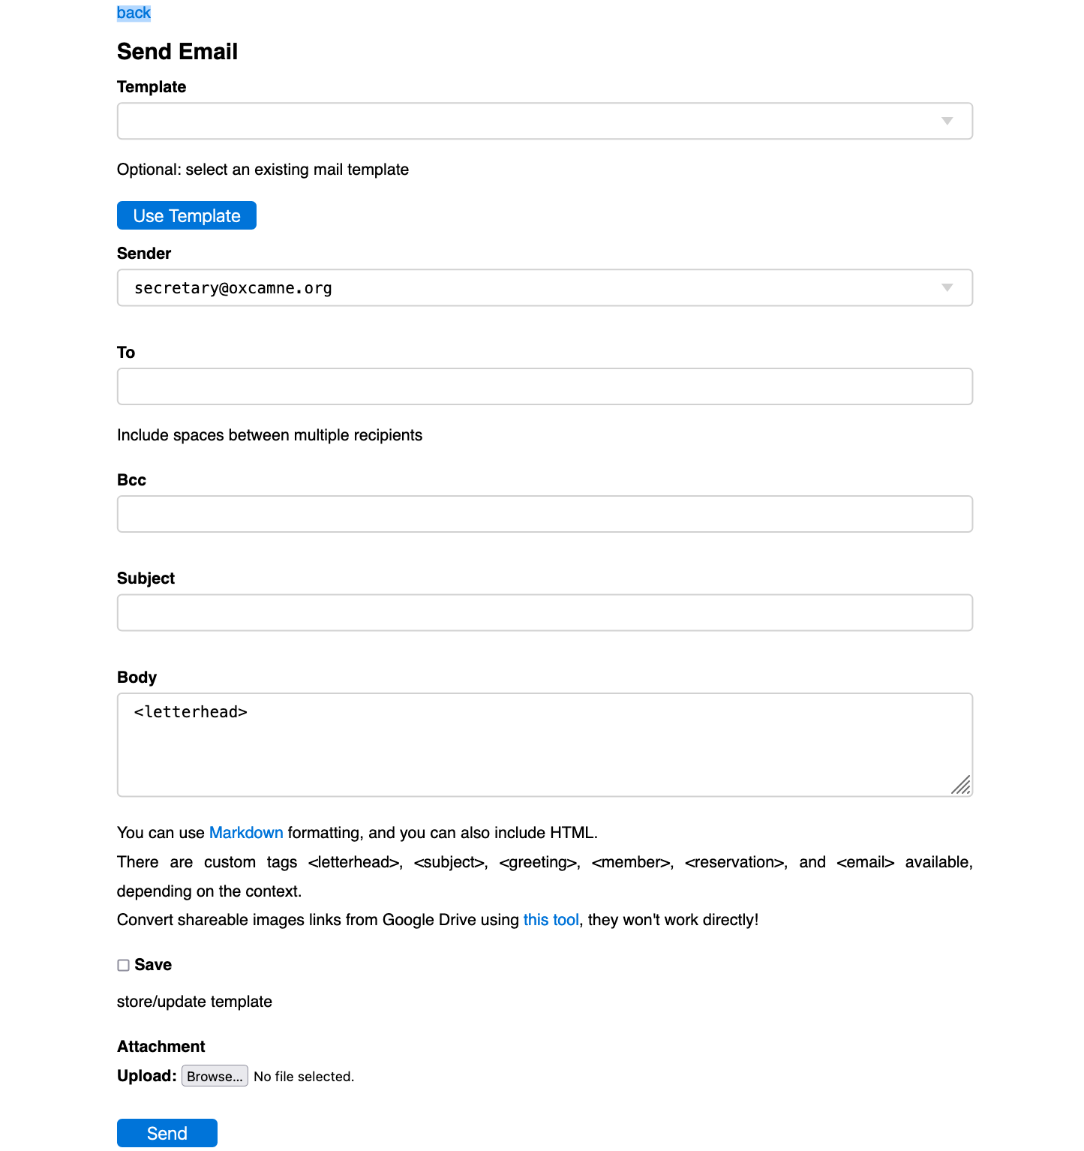
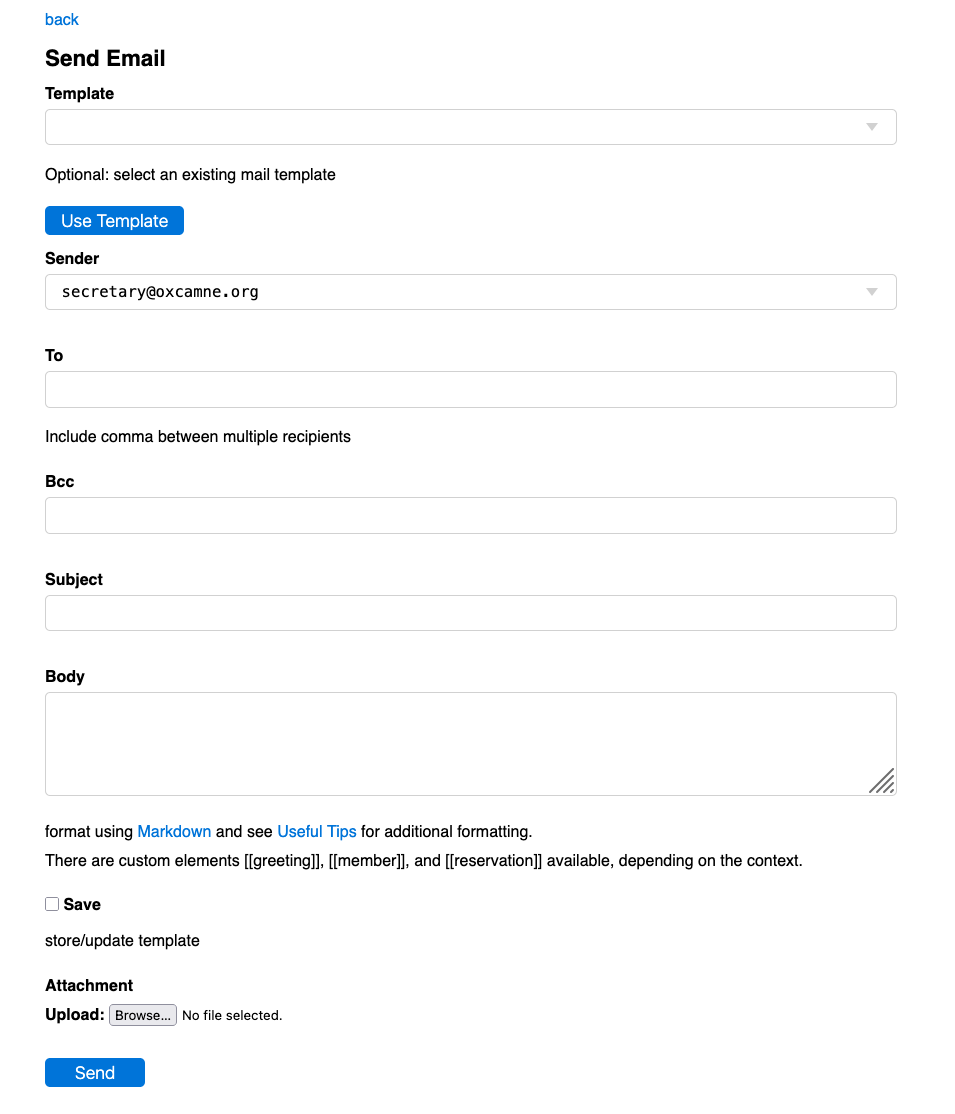
Begin to add check-in functionality, fix links in daily maintenance emails

diff --git a/templates/check_in.html b/templates/check_in.html
@@ -1,0 +1,42 @@
+[[extend 'layout.html']]
+
+[[=header]]
+
+<input type="text" id="search" placeholder="Search by name..." autocomplete="off">
+
+<div id="grid-container">
+[[=grid.render()]]
+</div>
+
+<script>
+document.getElementById("search").addEventListener("input", function() {
+    let searchValue = this.value.toLowerCase();
+    let rows = document.querySelectorAll("#grid-container table tbody tr");
+
+    let showGroup = false; // Tracks visibility of a member and their guests
+    let lastMemberRow = null; // Stores the last seen member row
+
+    rows.forEach((row) => {
+        let nameCell = row.querySelector("td:first-child"); 
+        if (!nameCell) return;
+
+        let nameText = nameCell.textContent.toLowerCase();
+        let isGuest = nameText.startsWith("+ ");
+
+        if (!isGuest) {
+            // Member row: reset visibility tracker and store reference
+            lastMemberRow = row;
+            showGroup = nameText.startsWith(searchValue);
+        } else {
+            // Guest row: Trim '+ ' prefix, then check match
+            let guestName = nameText.substring(2); // Remove '+ '
+            if (guestName.startsWith(searchValue)) {
+                showGroup = true;
+                if (lastMemberRow) lastMemberRow.style.display = ""; // Ensure member is visible
+            }
+        }
+
+        row.style.display = showGroup ? "" : "none";
+    });
+});
+</script>

diff --git a/controllers.py b/controllers.py
@@ -1037,6 +1037,29 @@ def event_reservations(event_id, path=None):
 			details=False, editable = False, create = False, deletable = False,
 			rows_per_page=200, grid_class_style=grid_style, formstyle=form_style)
 	return locals()
+		
+@action('check_in/<event_id:int>', method=['POST', 'GET'])
+@action('check_in/<event_id:int>/<path:path>', method=['POST', 'GET'])
+@action.uses("check_in.html", db, session, flash, Inject(PAGE_BANNER=PAGE_BANNER))
+@checkaccess('write')
+def check_in(event_id, path=None):
+	event = db.Events[event_id]
+	access = session.access	#for layout.html
+	header = f"Check In for {event.Description}"
+
+	grid = Grid(path, (db.Reservations.Event==event_id)&(db.Reservations.Provisional==False)&(db.Reservations.Waitlist==False),
+			#left = db.Emails.on(db.Emails.Member==db.Reservations.Member),
+			left = db.Members.on(db.Members.id==db.Reservations.Member),
+			orderby=db.Members.Lastname|db.Members.Firstname|~db.Reservations.Host|db.Reservations.Lastname|db.Reservations.Firstname,
+			columns=[
+				Column('guest', lambda row: f"{('+ ' if not row.Host else '')  +row.Lastname+', '+row.Firstname}",
+					required_fields=[db.Reservations.Host, db.Reservations.Lastname, db.Reservations.Firstname]),
+			],
+			details=False, editable=False, create=False,
+			deletable=False,
+			grid_class_style=grid_style,rows_per_page=200,
+			formstyle=form_style)
+	return locals()
 
 #this controller is used by privileged users to manage event registrations.
 #most of the rules governing registration, e.g. capacity constrains, membership requirements,
@@ -2234,7 +2257,7 @@ def composemail():
 				A('Useful Tips', _href='https://oxcamne.github.io/oxcam/send_email.html#useful-tips', _target='doc'),
 				" for additional formatting.",
 				XML('<br>'),
-				"There are custom elements [[greeting]], [[member]], and [[reservation]] ",
+				"There are custom elements [[greeting]], [[member]], [[reservation]], [[registration_link]] ",
 				"available, depending on the context.")))
 	fields.append(Field('save', 'boolean', default=proto!=None, comment='store/update template'))
 	fields.append(Field('attachment', 'upload', uploadfield=False))

diff --git a/daily_maintenance.py b/daily_maintenance.py
@@ -58,7 +58,7 @@ def daily_maintenance():
 		if (m.Paiddate - datetime.date.today()).days % interval == 0:
 			text = f"{member_greeting(m)}"
 			text += f"<p>This is a friendly reminder that your {SOCIETY_NAME} membership expiration \
-date is/was {m.Paiddate.strftime(DATE_FORMAT)}. Please renew by <a href={DB_URL}> logging in</a> \
+date is/was {m.Paiddate.strftime(DATE_FORMAT)}. Please renew by <a href={DB_URL}/my_account> logging in</a> \
 and selecting join/renew from the menu of choices, \
 or cancel membership to receive no futher reminders.</p><p>\
 We are very grateful for your membership support and hope that you will renew!</p>\
@@ -73,7 +73,7 @@ If you have any questions, please contact {SUPPORT_EMAIL}"
 			if IS_PRODUCTION:
 				text = f"{member_greeting(m)}"
 				text += f"<p>We have been unable to process your auto-renewal and as a result your membership has been cancelled. </p><p>\
-We hope you will <a href={DB_URL}> reinstate your membership</a>, \
+We hope you will <a href={DB_URL}/my_account> reinstate your membership</a>, \
 but in any case we are grateful for your past support!</p>\
 If you have any questions, please contact {SUPPORT_EMAIL}"
 				db.commit()

diff --git a/docs/send_email.md b/docs/send_email.md
@@ -16,7 +16,7 @@ If the message is explicitly addressed, or targetted to a single member, a 'Bcc:
 
 The Sender field allows you select which address to use if you have multiple roles. Replies will be sent to this address.
 
-The message body can use custom elements [[greeting]] (a personalized greeting, more or less formal depending on whether the member included a title when joining).  The element [[member]] is replaced by the member's directory information, and in suitable contexts [[reservation]] will show details of a reservation.
+The message body can use custom elements [[greeting]] (a personalized greeting, more or less formal depending on whether the member included a title when joining).  The element [[member]] is replaced by the member's directory information, and in suitable contexts [[reservation]] will show details of a reservation, or [[registration_link]] the registration_link.
 
 **[Markdown](https://www.markdownguide.org/basic-syntax/)** can be used to format and include links and graphics. The Send Email page has a link to Markdown documentation.
 
@@ -26,7 +26,7 @@ Ticking the 'save/update template' box allows the content to be saved for later 
 
 ### Useful Tips
 
-If you want to include copy prepared in other file formats, e.g. Word, there is a useful site [file2md.com](https://file2md.com/) which provides useful conversion tools for free use.
+If you want to include copy prepared in other file formats, e.g. Word, there is a useful site **[file2md.com](https://file2md.com/)** which provides useful conversion tools for free use.
 
 The **[Markdown](https://www.markdownguide.org/basic-syntax/)** syntax \!\[alt_text](image_url) is a simple way to include images. They are displayed as a block, i.e. text does not wrap alongside them, and at full size or, depending on the email client, scaled to occupy the available display width. Either make sure the image is not too large, or specify the display width using HTML as discussed below! Note that Markdown does not apply any formatting within HTML tags.
 

diff --git a/docs/reservation_list.md b/docs/reservation_list.md
@@ -12,7 +12,7 @@ The page normally shows confirmed registrations, but links allow the **waitlist*
 
 Confirmed reservations can be exported using the **Export Doorlist as CSV file** link. The resulting spreadsheet can be used to print the doorlist, generate name badges, plan table assignments, etc. The door list includes all confirmed members and guests. See the 'how to' for help in preparing name badges.
 
-The **Send_Email_Notice** link allows sending notices to attendees, waitlisted, or provisional registrants. Note that the message can be customized using [[greeting>]] and [[reservation]] elements.
+The **Send_Email_Notice** link allows sending notices to attendees, waitlisted, or provisional registrants. Note that the message can be customized using [[greeting>]], [[reservation]], and [[registration_link]] elements.
 
 Each row shows one member booking. Additional guests are reflected only in the count. Note that an individual reservation may contain both confirmed and wait listed or provisional guests if the member adds additional guests after checking out, and does not successfully checkout the additions.
 
